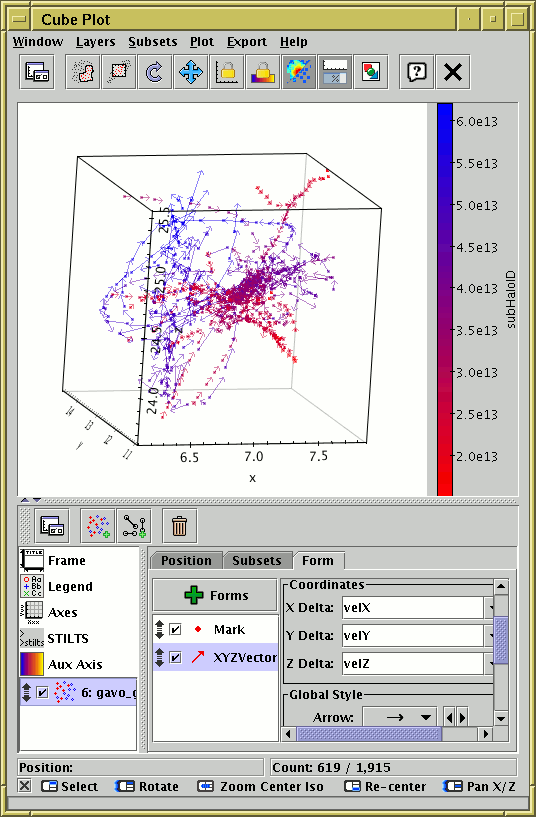
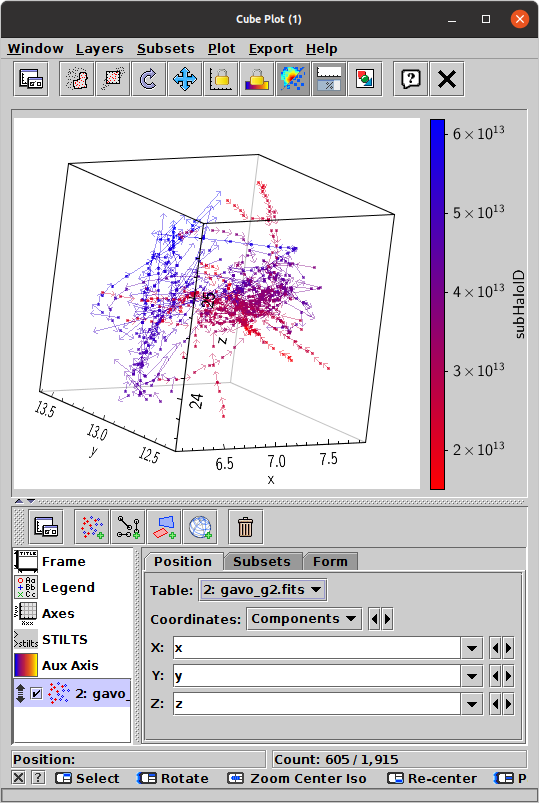
topcat: CubePlotWindow allows DataGeom selection
The CubePlot Window now allows the user to choose between
3 Cartesian component coordinates, a single Cartesian 3-vector
coordinate, and 3 Spherical Polar coordinates.

diff --git a/topcat/src/main/uk/ac/starlink/topcat/plot2/CubePlotWindow.java b/topcat/src/main/uk/ac/starlink/topcat/plot2/CubePlotWindow.java
@@ -2,13 +2,19 @@ package uk.ac.starlink.topcat.plot2;
 
 import java.awt.Component;
 import java.awt.Rectangle;
+import java.util.LinkedHashMap;
+import java.util.Map;
 import javax.swing.ListModel;
 import uk.ac.starlink.topcat.TopcatModel;
+import uk.ac.starlink.ttools.plot2.DataGeom;
 import uk.ac.starlink.ttools.plot2.Surface;
 import uk.ac.starlink.ttools.plot2.geom.CubeAspect;
+import uk.ac.starlink.ttools.plot2.geom.CubeDataGeom;
 import uk.ac.starlink.ttools.plot2.geom.CubePlotType;
 import uk.ac.starlink.ttools.plot2.geom.CubeSurface;
 import uk.ac.starlink.ttools.plot2.geom.CubeSurfaceFactory;
+import uk.ac.starlink.ttools.plot2.geom.CubeVectorDataGeom;
+import uk.ac.starlink.ttools.plot2.geom.SphereDataGeom;
 
 /**
  * Layer plot window for 3D Cartesian plots.
@@ -20,14 +26,9 @@ public class CubePlotWindow
        extends StackPlotWindow<CubeSurfaceFactory.Profile,CubeAspect> {
     private static final CubePlotType PLOT_TYPE = CubePlotType.getInstance();
     private static final CubeRanger CUBE_RANGER = new CubeRanger();
+    private static final Map<DataGeom,CoordSpotter[]> GEOM_SPOTTERS =
+        createGeomSpotterMap();
     private static final CubePlotTypeGui PLOT_GUI = new CubePlotTypeGui();
-    private static final String[] XYZ = new String[] { "x", "y", "z" };
-    private static final CoordSpotter[] XYZ_SPOTTERS = new CoordSpotter[] {
-        CoordSpotter.createUcdSpotter( "pos.cartesian", XYZ, false ),
-        CoordSpotter.createUcdSpotter( "pos.cartesian", XYZ, true ),
-        CoordSpotter.createNamePrefixSpotter( XYZ, true ),
-        CoordSpotter.createNamePrefixSpotter( XYZ, false ),
-    };
 
     /**
      * Constructor.
@@ -53,9 +54,7 @@ public class CubePlotWindow
                   .create( new CubeAxisController( false ) );
         }
         public PositionCoordPanel createPositionCoordPanel( int npos ) {
-            return SimplePositionCoordPanel
-                  .createPanel( PLOT_TYPE.getPointDataGeoms()[ 0 ], npos,
-                                XYZ_SPOTTERS );
+            return new MultiGeomPositionCoordPanel( npos, GEOM_SPOTTERS );
         }
         public PositionCoordPanel createAreaCoordPanel() {
             throw new UnsupportedOperationException();
@@ -106,5 +105,59 @@ public class CubePlotWindow
             int npix = Math.max( bounds.width, bounds.height );
             return new int[] { npix, npix, npix };
         }
+    }
+
+    /**
+     * Sets up a map from DataGeom to a list of CoordSpotters that can
+     * guess suitable values for the coordinate sets used.
+     *
+     * <p>UCDs in the implementation are taken from v 1.5 of the
+     * <a href="https://www.ivoa.net/documents/UCD1+/"
+     *         >UCD1+ Controlled Vocabulary</a> document.
+     *
+     * @return  map from all DataGeoms suitable for the CubePlotWindow
+     *          to lists of appropriate CoordSpotters
+     */
+    private static Map<DataGeom,CoordSpotter[]> createGeomSpotterMap() {
+        Map<DataGeom,CoordSpotter[]> map = new LinkedHashMap<>();
+
+        /* Cartesian component coordinates. */
+        String[] xyz = new String[] { "x", "y", "z" };
+        map.put( CubeDataGeom.INSTANCE, new CoordSpotter[] {
+            CoordSpotter.createUcdSpotter( "pos.cartesian", xyz, false ),
+            CoordSpotter.createUcdSpotter( "pos.cartesian", xyz, true ),
+            CoordSpotter.createNamePrefixSpotter( xyz, true ),
+            CoordSpotter.createNamePrefixSpotter( xyz, false ),
+        } );
+
+        /* Cartesian 3-vector coordinates. */
+        map.put( CubeVectorDataGeom.INSTANCE, new CoordSpotter[] {
+            CoordSpotter.createVectorSpotter( 3 ),
+            CoordSpotter.createVectorSpotter( -1 ),
+        } );
+
+        /* Spherical polar coordinates. */
+        map.put( SphereDataGeom.INSTANCE, new CoordSpotter[] {
+            CoordSpotter
+           .createUcdSpotter( "pos.bodyrc",
+                              new String[] { "lon", "lat", "alt" }, true ),
+            CoordSpotter
+           .createUcdSpotter( "pos.earth",
+                              new String[] { "lon", "lat", "altitude" }, true ),
+
+            // Note these ones don't match the required coordinates,
+            // but they are similar, so filling them in may provide a useful
+            // clue to the user in absence of better guesses.
+            CoordSpotter
+           .createUcdSpotter( "pos.spherical",
+                              new String[] { "azi", "colat", "r" }, true ),
+        } );
+
+        /* Check we have set up coordinate value defaults for all the
+         * geoms in use. */
+        for ( DataGeom geom : PLOT_TYPE.getPointDataGeoms() ) {
+            assert map.containsKey( geom );
+        }
+        return map;
     }
 }
